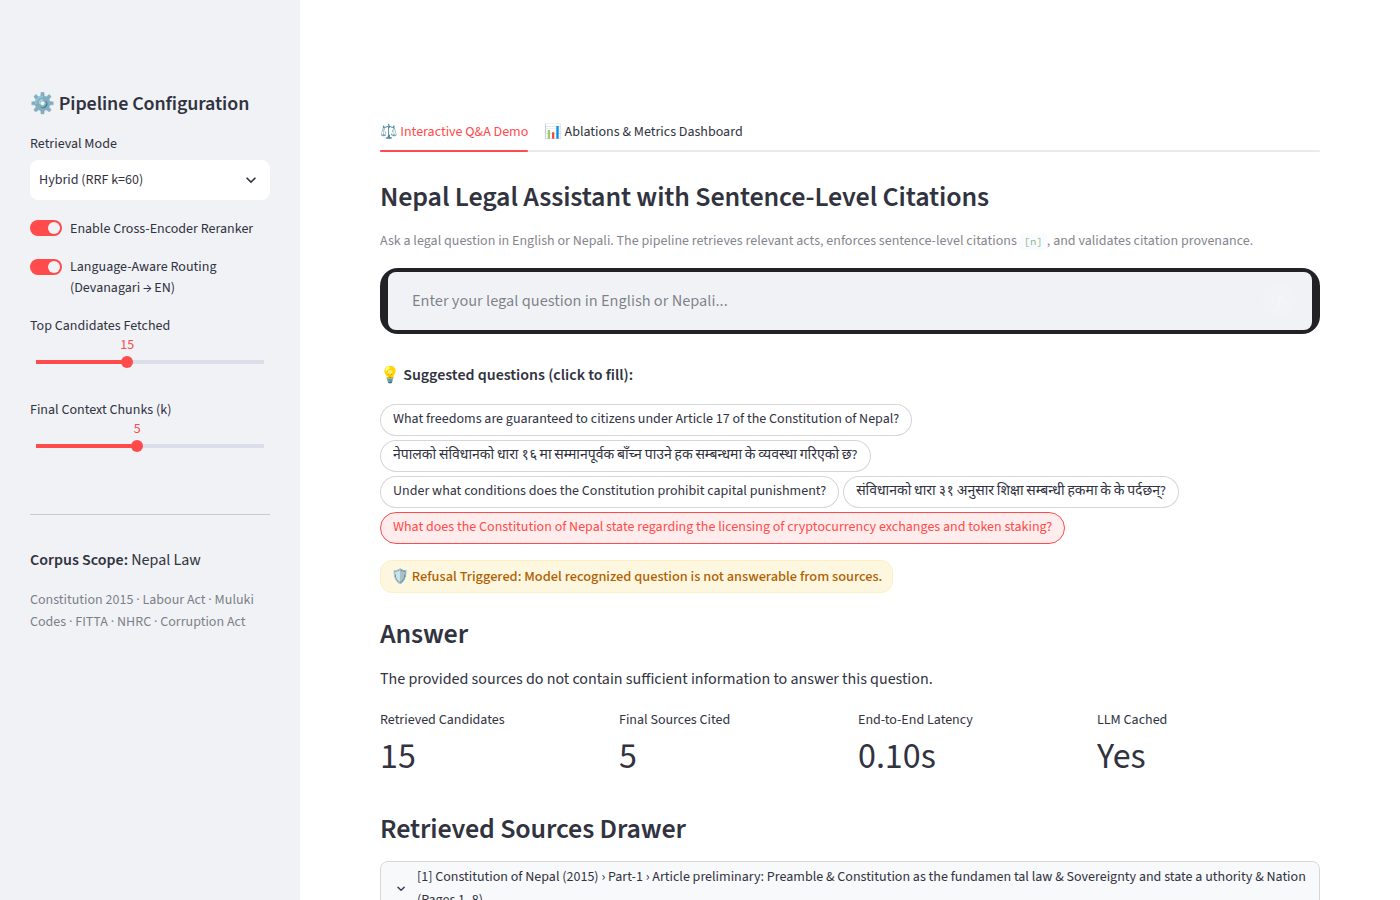
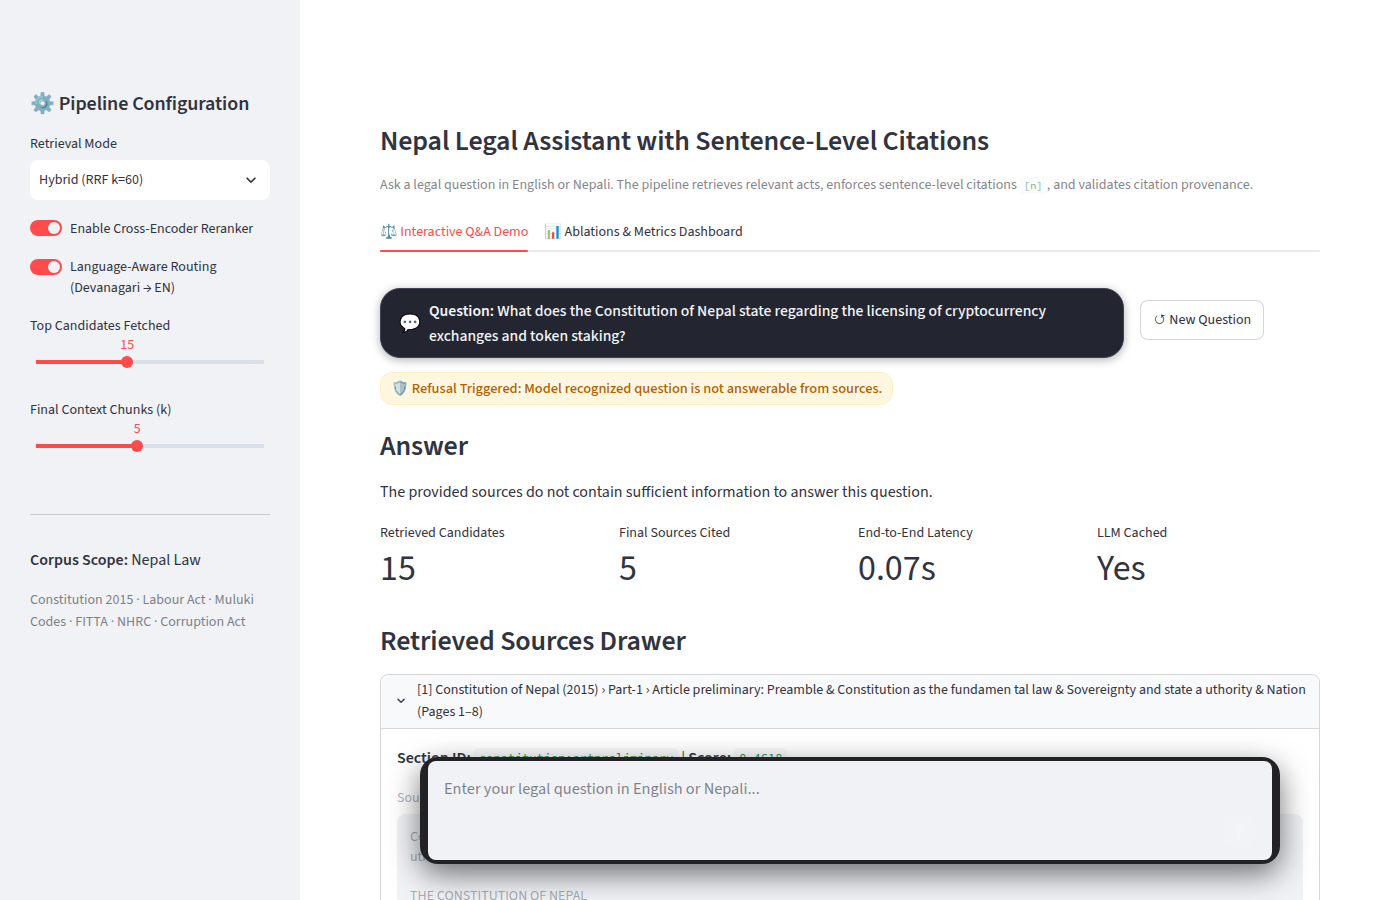
feat(ui): place header above tabs, hide suggestions post-submit, display query chip, and pin chat input at bottom

Changed region(s): [[0.2457, 0.1244, 0.9521, 1.0]]

diff --git a/scripts/browser_test.py b/scripts/browser_test.py
@@ -53,11 +53,17 @@ def run_browser_tests():
             return True
 
         # Test 1: Initial load
-        print("\n--- Test 1: Initial Load & App Header ---")
+        print("\n--- Test 1: Initial Load & App Header Above Tabs ---")
         check_no_exceptions("Initial Load")
         title_text = page.locator("h3").first.inner_text()
         print(f"  Found title: '{title_text}'")
         assert "Nepal Legal Assistant" in title_text
+
+        # Verify header is placed before tabs in DOM order
+        header_y = page.locator("h3").first.bounding_box()["y"]
+        tabs_y = page.locator("[role='tablist']").bounding_box()["y"]
+        assert header_y < tabs_y, f"Header (y={header_y}) should be above tabs (y={tabs_y})!"
+        print(f"  ✓ Confirmed: Header is above tabs (header_y={header_y:.1f} < tabs_y={tabs_y:.1f})")
 
         # Test 2: Chip Click -> Textarea Fill & Submit Button Enabled
         print("\n--- Test 2: Chip Click & Textarea Population ---")
@@ -67,7 +73,7 @@ def run_browser_tests():
 
         # Click the first chip
         q1_button.first.click()
-        time.sleep(2)
+        time.sleep(1.5)
         check_no_exceptions("After Chip 1 Click")
 
         textarea = page.locator("textarea").first
@@ -89,7 +95,7 @@ def run_browser_tests():
         assert old_clear_btn.count() == 0, "Old 'Clear Question' button still present!"
         print("  ✓ Confirmed: External 'Run RAG Pipeline' and 'Clear Question' buttons removed.")
 
-        # Test 3.5: Instant Conversational Greeting ('hi there')
+        # Test 3.5: Instant Conversational Greeting ('hi there') & Question Chip Verification
         print("\n--- Test 3.5: Instant Conversational Greeting ('hi there') ---")
         textarea = page.locator("textarea").first
         textarea.fill("hi there")
@@ -100,7 +106,37 @@ def run_browser_tests():
         page.wait_for_selector(".status-pill-ok:has-text('Instant Conversational Assistant')", timeout=5000)
         elapsed_hi = time.perf_counter() - t0
         check_no_exceptions("After 'hi there' Submission")
-        print(f"  ✓ 'hi there' answered in {elapsed_hi:.2f}s (browser round-trip) with Instant Conversational badge!")
+        print(f"  ✓ 'hi there' answered in {elapsed_hi:.2f}s with Instant Conversational badge!")
+
+        # Verify suggested questions are now HIDDEN after submission
+        assert page.locator("button:has-text('What freedoms are guaranteed')").count() == 0, (
+            "Suggested questions pills should be hidden after asking a question!"
+        )
+        print("  ✓ Confirmed: Suggested questions section is hidden after submission.")
+
+        # Verify active question chip is displayed above the response
+        q_chip = page.locator(".user-query-chip")
+        assert q_chip.count() > 0, "Active question chip not found above response!"
+        assert "hi there" in q_chip.first.inner_text()
+        print(f"  ✓ Active question chip rendered: '{q_chip.first.inner_text()}'")
+
+        # Verify '↺ New Question' button is visible
+        reset_btn = page.locator("button:has-text('New Question')")
+        assert reset_btn.count() > 0, "Reset button ('New Question') not found!"
+        print("  ✓ '↺ New Question' button is present.")
+
+        # Test 3.6: Reset via '↺ New Question' & Verify Suggestions Reappear
+        print("\n--- Test 3.6: Reset via '↺ New Question' ---")
+        reset_btn.first.click()
+        time.sleep(1.5)
+        check_no_exceptions("After Clicking 'New Question'")
+        assert page.locator("button:has-text('What freedoms are guaranteed')").count() > 0, (
+            "Suggested questions pills should reappear after clicking 'New Question'!"
+        )
+        assert page.locator(".user-query-chip").count() == 0, (
+            "Question chip should be removed after clicking 'New Question'!"
+        )
+        print("  ✓ Suggestions reappeared and previous answer/question chip cleared successfully.")
 
         # Test 4: Chip Click for Nepali Query & Execution via Embedded Submit Button
         print("\n--- Test 4: Nepali Query Selection & Pipeline Execution ---")
@@ -108,7 +144,7 @@ def run_browser_tests():
         assert nepali_chip.count() > 0, "Nepali suggestion chip not found!"
         print(f"  Clicking Nepali chip: '{nepali_chip.first.inner_text()[:60]}...'")
         nepali_chip.first.click()
-        time.sleep(2)
+        time.sleep(1.5)
         check_no_exceptions("After Nepali Chip Click")
 
         print("  Clicking embedded submit button inside textarea...")
@@ -121,7 +157,16 @@ def run_browser_tests():
         time.sleep(1)
         check_no_exceptions("After RAG Pipeline Execution")
 
-        # Verify citation status badge is .status-pill-ok (not refusal) and .cite-badge pills rendered
+        # Verify suggestions hidden and Nepali question chip displayed
+        assert page.locator("button:has-text('What freedoms are guaranteed')").count() == 0, (
+            "Suggested questions should be hidden during active Nepali query!"
+        )
+        q_chip = page.locator(".user-query-chip")
+        assert q_chip.count() > 0, "Question chip not found for Nepali query!"
+        assert "नेपालको संविधानको धारा १६" in q_chip.first.inner_text()
+        print(f"  ✓ Nepali question chip: '{q_chip.first.inner_text()[:50]}...'")
+
+        # Verify citation status badge is .status-pill-ok and .cite-badge pills rendered
         status_pill = page.locator(".status-pill-ok:has-text('sentences cited')")
         assert status_pill.count() > 0, "Expected cited Nepali answer (.status-pill-ok), not refusal!"
         print(f"  ✓ Validation badge: '{status_pill.first.inner_text()}'")
@@ -157,12 +202,18 @@ def run_browser_tests():
         time.sleep(1)
         check_no_exceptions("After Switching Back to Tab 1")
 
+        # Reset query to show suggestion chips
+        reset_btn = page.locator("button:has-text('New Question')")
+        if reset_btn.count() > 0:
+            reset_btn.first.click()
+            time.sleep(1.5)
+
         # Click the cryptocurrency unanswerable refusal chip
         unans_chip = page.locator("button:has-text('cryptocurrency exchanges')")
         assert unans_chip.count() > 0, "Unanswerable query chip not found!"
         print(f"  Clicking refusal chip: '{unans_chip.first.inner_text()[:60]}...'")
         unans_chip.first.click()
-        time.sleep(2)
+        time.sleep(1.5)
 
         print("  Clicking embedded submit button inside textarea for refusal test...")
         submit_btn = page.locator("button[data-testid='stChatInputSubmitButton']")

diff --git a/app/streamlit_app.py b/app/streamlit_app.py
@@ -124,6 +124,58 @@ st.markdown(
         background-color: rgba(255, 255, 255, 0.1) !important;
         color: rgba(255, 255, 255, 0.25) !important;
     }
+
+    /* Pinned chat input dock at the bottom of the viewport in Tab 1 */
+    div[data-testid="stTabPanel"] div[data-testid="stChatInput"] {
+        position: fixed !important;
+        bottom: 24px !important;
+        left: calc(var(--sidebar-width, 300px) + (100vw - var(--sidebar-width, 300px)) / 2) !important;
+        transform: translateX(-50%) !important;
+        width: min(860px, calc(100vw - 360px)) !important;
+        z-index: 1000 !important;
+        background-color: #212126 !important;
+        border-radius: 18px !important;
+        box-shadow: 0 10px 30px rgba(0, 0, 0, 0.55), 0 0 0 1px rgba(255, 255, 255, 0.08) !important;
+    }
+
+    @media (max-width: 992px) {
+        div[data-testid="stTabPanel"] div[data-testid="stChatInput"] {
+            left: 50% !important;
+            width: calc(100vw - 32px) !important;
+        }
+    }
+
+    /* Ensure scrollable content in Tab 1 has padding at bottom so nothing is hidden behind input dock */
+    div[data-testid="stTabPanel"] {
+        padding-bottom: 140px !important;
+    }
+
+    /* User query chip badge above the answer */
+    .user-query-container {
+        display: flex;
+        align-items: center;
+        gap: 10px;
+        margin-bottom: 14px;
+        margin-top: 4px;
+    }
+    .user-query-chip {
+        background: #232530;
+        color: #f3f4f6;
+        padding: 9px 18px;
+        border-radius: 20px;
+        font-size: 0.98rem;
+        font-weight: 500;
+        display: inline-flex;
+        align-items: center;
+        gap: 8px;
+        border: 1px solid #3f4154;
+        box-shadow: 0 2px 10px rgba(0, 0, 0, 0.3);
+        max-width: 100%;
+        word-break: break-word;
+    }
+    .user-query-icon {
+        font-size: 1.1rem;
+    }
     </style>
     """,
     unsafe_allow_html=True,
@@ -163,6 +215,13 @@ def _render_with_citation_badges(text: str) -> str:
     )
 
 
+# Page header placed permanently above tabs
+st.subheader("Nepal Legal Assistant with Sentence-Level Citations")
+st.caption(
+    "Ask a legal question in English or Nepali. The pipeline retrieves relevant acts, "
+    "enforces sentence-level citations `[n]`, and validates citation provenance."
+)
+
 tab_qa, tab_eval = st.tabs(["⚖ Interactive Q&A Demo", "📊 Ablations & Metrics Dashboard"])
 
 with st.sidebar:
@@ -190,12 +249,6 @@ with st.sidebar:
 # TAB 1: Interactive Q&A Demo
 # -------------------------------------------------------------
 with tab_qa:
-    st.subheader("Nepal Legal Assistant with Sentence-Level Citations")
-    st.caption(
-        "Ask a legal question in English or Nepali. The pipeline retrieves relevant acts, "
-        "enforces sentence-level citations `[n]`, and validates citation provenance."
-    )
-
     example_queries = [
         "What freedoms are guaranteed to citizens under Article 17 of the Constitution of Nepal?",
         "नेपालको संविधानको धारा १६ मा सम्मानपूर्वक बाँच्न पाउने हक सम्बन्धमा के व्यवस्था गरिएको छ?",
@@ -215,6 +268,11 @@ with tab_qa:
         if chosen:
             st.session_state["query_input_val"] = chosen
 
+    def reset_query():
+        st.session_state["last_result"] = None
+        st.session_state["query_input_val"] = ""
+        st.session_state["chip_selection"] = None
+
     retriever = get_retriever()
     _ = get_cached_reranker()
     if retriever is None:
@@ -223,24 +281,24 @@ with tab_qa:
             "Please ensure `data/processed/chunks.jsonl` is indexed."
         )
 
-    # Embedded input container with submit button inside the textarea
-    with st.container():
-        submitted_query = st.chat_input(
-            "Enter your legal question in English or Nepali...",
-            key="query_input_val",
-            disabled=(retriever is None),
-        )
-
-    # Chip-style example questions below the input field
-    st.markdown("💡 **Suggested questions (click to fill):**")
-    st.pills(
-        "Suggested questions",
-        options=example_queries,
-        key="chip_selection",
-        on_change=apply_chip,
-        label_visibility="collapsed",
-        wrap=True,
+    # Embedded input container pinned at the bottom of the page
+    submitted_query = st.chat_input(
+        "Enter your legal question in English or Nepali...",
+        key="query_input_val",
+        disabled=(retriever is None),
     )
+
+    # Chip-style example questions - visible only before a question has been asked
+    if st.session_state.get("last_result") is None and not submitted_query:
+        st.markdown("💡 **Suggested questions (click to fill):**")
+        st.pills(
+            "Suggested questions",
+            options=example_queries,
+            key="chip_selection",
+            on_change=apply_chip,
+            label_visibility="collapsed",
+            wrap=True,
+        )
 
     if submitted_query:
         t_pipeline_start = time.perf_counter()
@@ -323,6 +381,28 @@ with tab_qa:
         gen_result = res["gen_result"]
         val_report = res["val_report"]
         total_latency_s = res.get("total_latency_s", gen_result.latency_s)
+
+        # Active question chip with reset action
+        col_q, col_rst = st.columns([0.80, 0.20], vertical_alignment="center")
+        with col_q:
+            st.markdown(
+                f"""
+                <div class="user-query-container">
+                    <div class="user-query-chip">
+                        <span class="user-query-icon">💬</span>
+                        <span><b>Question:</b> {res['question']}</span>
+                    </div>
+                </div>
+                """,
+                unsafe_allow_html=True,
+            )
+        with col_rst:
+            st.button(
+                "↺ New Question",
+                key="btn_reset_query",
+                on_click=reset_query,
+                help="Clear answer and show suggestion chips",
+            )
 
         # Render citation validation status
         if is_conv:
